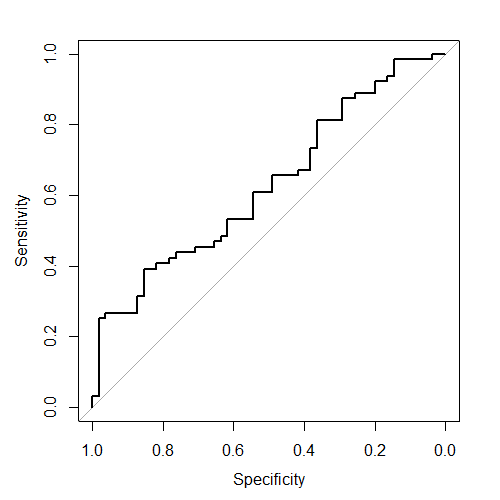
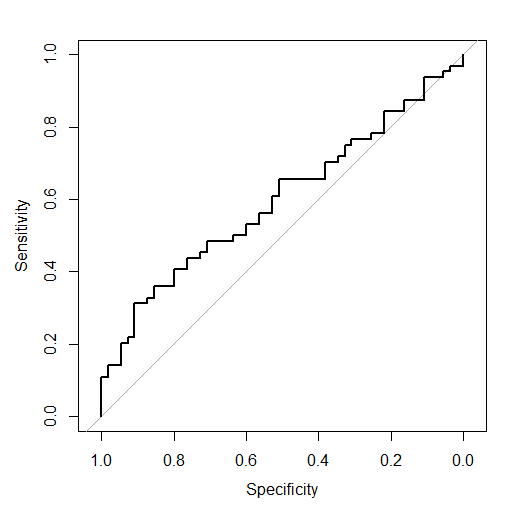
renew

diff --git a/README.md b/README.md
@@ -35,7 +35,7 @@ ROC <- test_Model(mymodel, test_set)
 library(pROC)
 plot(ROC)
 auc(ROC)
-## Area under the curve: 0.6287
+## Area under the curve: 0.5983
 ```
 ![Screenshot](https://github.com/Chengxugorilla/tigeR/raw/main/man/figures/ROC.png)
 ### 4. Immunotherapy Response
